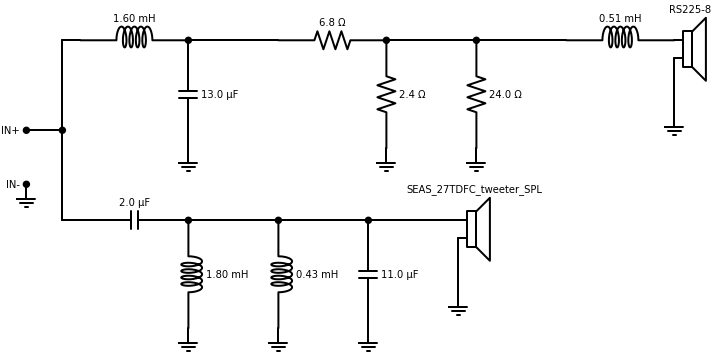
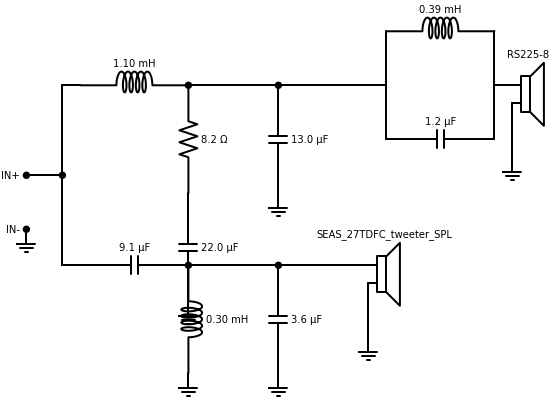
Ajouter loss sur le SPL moyen

Changed region(s): [[0.0, 0.0, 1.0, 0.9888]]

diff --git a/optimizer.py b/optimizer.py
@@ -24,7 +24,8 @@ WEIGHTS = {
                 'mse_sum': 1.0,      # Poids de base (référence)
                 'ripple': 2.0,       # Le ripple est 2x plus puni que la pente globale
                 'phase': 0.5,        # La phase départage, mais ne doit pas détruire le SPL
-                'components': 2.0    # 2 points de pénalité par composant superflu
+                'components': 2.0,   # 2 points de pénalité par composant superflu
+                'mean_spl': 0.1     # Poids pour la moyenne du SPL
             }
 
 def snap_to_e24(val):
@@ -187,15 +188,15 @@ class CrossoverOptimizer:
                     overlap_weight = np.abs(p1) * np.abs(p2) / (np.max(np.abs(p1) * np.abs(p2)) + 1e-12)
                     raw_phase_penalty += np.mean(np.maximum(0, phase_diff_rad - 0.52) * overlap_weight)
                 
-                
+                mean_spl = np.mean(spl_sum_test[self.mask_flat])
                 
                 # 2. APPLICATION DES POIDS RELATIFS
                 score_sum = (raw_mse * WEIGHTS['mse_sum']) + \
                             (raw_ripple * WEIGHTS['ripple']) + \
-                            (raw_phase_penalty * 100.0 * WEIGHTS['phase']) # *100 car les radians sont très petits (< 1.0)
-                mean_spl = np.mean(spl_sum_test[self.mask_flat])
-                if mean_spl < dynamic_spl - 1.5: # Tolérance de 1.5 dB de perte max
-                    score_sum += (dynamic_spl - 1.5 - mean_spl) * 50.0 # Pénalité très lourde
+                            (raw_phase_penalty * 100.0 * WEIGHTS['phase']) + \
+                            (-mean_spl * WEIGHTS['mean_spl']) 
+                            
+
                 
                 if score_sum < best_score_sum:
                     best_score_sum = score_sum
@@ -521,5 +522,5 @@ if __name__ == "__main__":
     
     # Plage de recherche Fx entre 1500Hz et 3000Hz
     opt = CrossoverOptimizer(config, fx_bounds=[(1500, 2200), (1500, 2500)])
-    best = opt.run(generations=100, pop_size=120)
+    best = opt.run(generations=50, pop_size=120)
     best['tree'].display()
